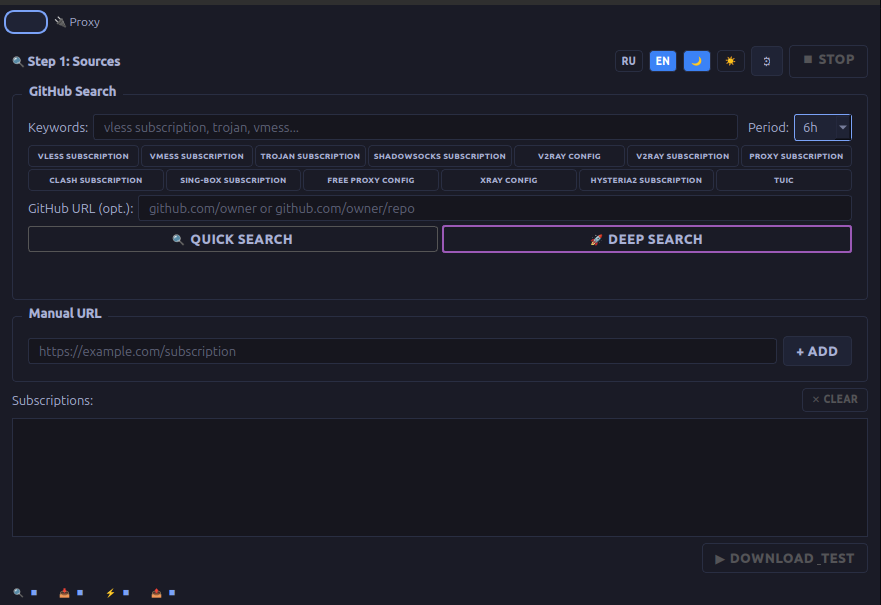
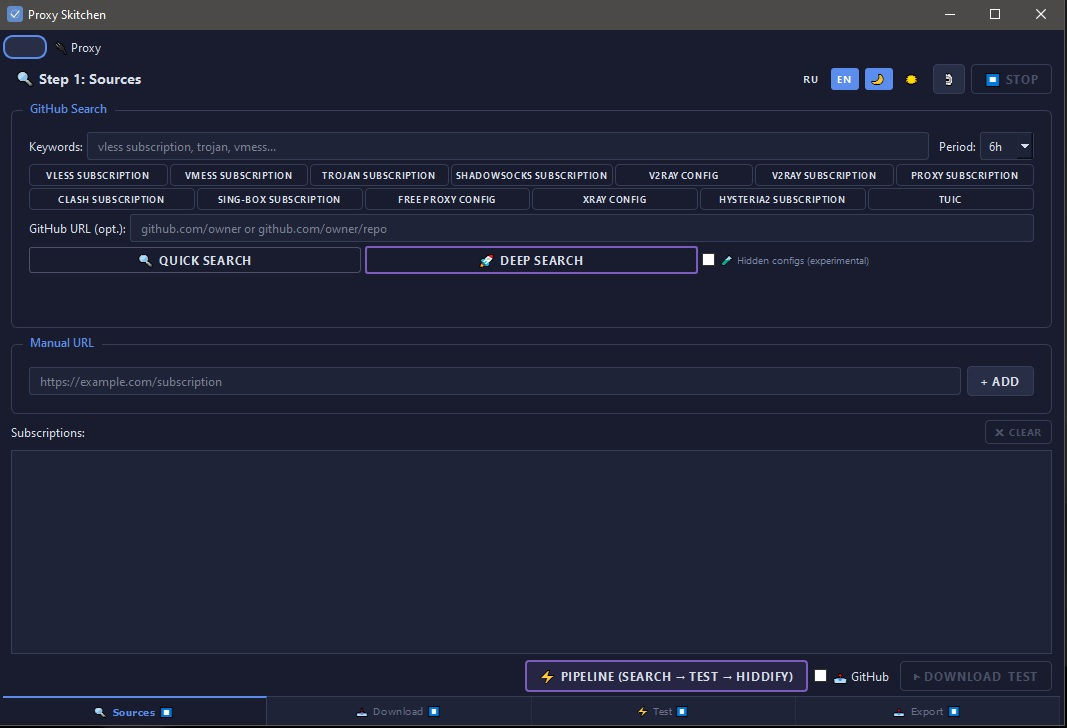
update screenshot

diff --git a/proxy_skitchen/ui.py b/proxy_skitchen/ui.py
@@ -11,7 +11,7 @@ def _debug(msg: str):
 
 from .compat import *
 from .compat import _write_log, DEBUG_LOG_PATHS
-from .models import ProxyEntry, ProxyTableModel, _auth_data, _settings_data, _save_auth, _load_auth, _save_settings, _load_settings, PERF_PRESETS, THEMES, current_theme, set_theme, country_flag
+from .models import ProxyEntry, ProxyTableModel, _auth_data, _settings_data, _save_auth, _load_auth, _save_settings, _load_settings, PERF_PRESETS, THEMES, current_theme, set_theme, country_flag, _get_tokens
 from .parsers import is_proxy_uri, extract_uris, get_server_port
 from .exporters import format_raw, format_v2rayn, format_singbox, format_clash, format_hiddify, smart_name, _country_to_code, _is_valid_entry, _entry_ok, _clean_uri
 from .workers import NetworkWorker, TesterWorker, GitHubSearchWorker
@@ -355,7 +355,7 @@ class SourcesPage(WizardPage):
         period_map = {_("period.1h"): 0.04, _("period.2h"): 0.08, _("period.4h"): 0.17, _("period.6h"): 0.25,
                       _("period.8h"): 0.33, _("period.12h"): 0.5, _("period.24h"): 1, _("period.3d"): 3, _("period.7d"): 7}
         time_days = period_map.get(self.period_combo.currentText(), 7)
-        tokens = _auth_data.get("github_tokens", [])
+        tokens = _get_tokens()
         repos = []
         owner = None
         if gh_url:
@@ -1149,10 +1149,12 @@ class TestPage(WizardPage):
         self.lbl_phase.setStyleSheet(f"font-size: 11px; color: {m}; min-width: 60px;")
 
         sel_alpha = "0.15" if current_theme() == "dark" else "0.1"
+        alt_bg = "#1a1f33" if current_theme() == "dark" else "#eae7e0"
         self.proxy_table.setStyleSheet(f"""
-            QTableView {{ gridline-color: {bd}; font-size: 12px; }}
-            QTableView::item {{ padding: 2px 4px; }}
+            QTableView {{ background: {ibg}; color: {fg}; gridline-color: {bd}; font-size: 12px; }}
+            QTableView::item {{ color: {fg}; padding: 2px 4px; }}
             QTableView::item:selected {{ background: rgba({int(acc[1:3],16)},{int(acc[3:5],16)},{int(acc[5:7],16)},{sel_alpha}); }}
+            QTableView::item:alternate {{ background: {alt_bg}; }}
             QHeaderView::section {{ background: {bg}; color: {mf}; border: none; border-bottom: 1px solid {bd}; padding: 4px 6px; font-size: 11px; font-weight: bold; }}
         """)
 
@@ -1441,7 +1443,7 @@ class TestPage(WizardPage):
             self._log("📤 GitHub push...")
             repo = _settings_data.get("gh_repo", "")
             file_path = _settings_data.get("gh_file", "")
-            tokens = _auth_data.get("github_tokens", [])
+            tokens = _get_tokens()
             if not repo or not file_path:
                 self._log("❌ GitHub: не указан репозиторий или файл")
             elif not tokens:
@@ -1862,7 +1864,7 @@ class ExportPage(WizardPage):
         self.stats_lbl.setText(_("export.stats", total=total, tcp=tcp_ok, deep="—"))
         QTimer.singleShot(0, self._update_preview)
         self._main.update_status_bar()
-        tokens = _auth_data.get("github_tokens", [])
+        tokens = _get_tokens()
         self.btn_gh_push.setEnabled(len(tokens) > 0)
         self.gh_status_label.setText("" if tokens else _("export.github.no_token"))
 
@@ -2031,7 +2033,7 @@ class ExportPage(WizardPage):
         if not repo or not file_path:
             QMessageBox.warning(self, _("msg.warning"), _("export.github.no_settings"))
             return
-        tokens = _auth_data.get("github_tokens", [])
+        tokens = _get_tokens()
         if not tokens:
             QMessageBox.warning(self, _("msg.warning"), _("export.github.no_token"))
             return
@@ -2150,7 +2152,9 @@ class SettingsDialog(QDialog):
         self.tokens_edit = QPlainTextEdit()
         self.tokens_edit.setPlaceholderText(_("settings.input.tokens.placeholder"))
         self.tokens_edit.setFixedHeight(80)
-        tokens = _auth_data.get("github_tokens", [])
+        tokens = _get_tokens()
+        if not tokens:
+            tokens = _env_tokens()
         self.tokens_edit.setPlainText("\n".join(tokens))
         gh_layout.addWidget(self.tokens_edit)
 

diff --git a/proxy_skitchen/models.py b/proxy_skitchen/models.py
@@ -272,6 +272,13 @@ def _load_auth() -> dict:
     return {"github_tokens": []}
 
 
+def _env_tokens() -> list[str]:
+    try:
+        return [v for v in [os.getenv("GH_TOKEN"), os.getenv("GITHUB_TOKEN"), os.getenv("GITHUB")] if v]
+    except Exception:
+        return []
+
+
 def _save_auth(data: dict):
     from .compat import IS_WINDOWS
     os.makedirs(SETTINGS_DIR, exist_ok=True)
@@ -294,6 +301,16 @@ if not _auth_data.get("github_tokens") and _settings_data.get("github_token"):
     del _settings_data["github_token"]
     _save_auth(_auth_data)
 _settings_data.pop("github_tokens", None)
+
+if not _auth_data.get("github_tokens"):
+    _auth_data["github_tokens"] = _env_tokens()
+
+
+def _get_tokens() -> list[str]:
+    tokens = _auth_data.get("github_tokens", [])
+    if not tokens:
+        tokens = _env_tokens()
+    return tokens
 
 
 class ProxyTableModel(QAbstractTableModel):

diff --git a/proxy_skitchen/__main__.py b/proxy_skitchen/__main__.py
@@ -36,7 +36,7 @@ def excepthook(etype, value, tb):
 sys.excepthook = excepthook
 
 from .compat import QCoreApplication, QApplication, QTimer, QEventLoop, _QT6, CREATE_NO_WINDOW
-from .models import ProxyEntry, _auth_data
+from .models import ProxyEntry, _auth_data, _get_tokens
 from .parsers import is_proxy_uri, extract_uris, get_protocol, get_server_port, wrap_raw_host, parse_json_proxies
 from .exporters import format_raw, _clean_uri
 from .tester import test_tcp, test_tls, SingBoxTester
@@ -52,7 +52,7 @@ class CliRunner:
         print(json.dumps(data, ensure_ascii=False))
 
     def cmd_search(self, args):
-        tokens = _auth_data.get("github_tokens", [])
+        tokens = _get_tokens()
         if args.token:
             tokens = [args.token]
         known = set()
@@ -147,7 +147,7 @@ class CliRunner:
     def cmd_pipeline(self, args):
         if args.verbose:
             print("Pipeline: поиск...", file=sys.stderr, flush=True)
-        tokens = _auth_data.get("github_tokens", [])
+        tokens = _get_tokens()
         if args.token:
             tokens = [args.token]
         known = set()

diff --git a/proxy_skitchen/workers.py b/proxy_skitchen/workers.py
@@ -355,6 +355,8 @@ class GitHubSearchWorker(QObject):
 
     def _api(self, url: str, timeout: int = 10) -> Optional[dict]:
         tokens = list(self.github_tokens)
+        if not tokens:
+            self.progress_signal.emit(f"  ⚠ Поиск без токена, лимит 60 запросов/ч")
         for attempt in range(max(1, len(tokens) + 1)):
             if self._stop:
                 return None